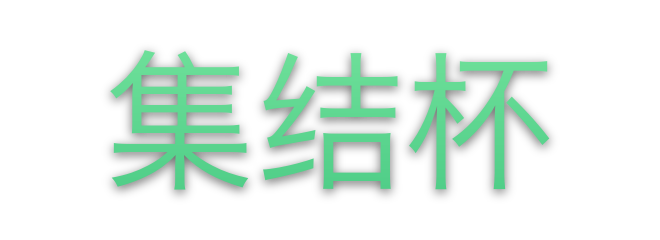
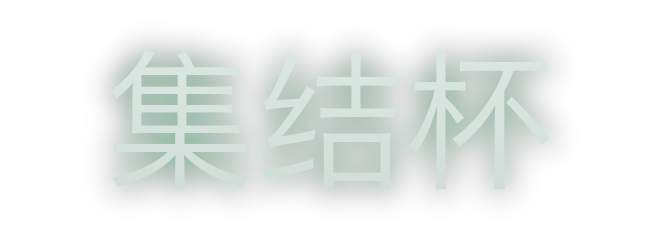
集结杯 sc2-dark 标题对齐 design：纯绿 → 浅白 + 绿色外发光
截图 #24 反馈 sc2-dark「集结杯」与 design 不一致。design styles.css：
sc2-dark .lockup-cn = color var(--ink)(#dfeae6 浅灰白) + text-shadow 0 0 16px rgba(86,207,140,.32) 绿发光。
原 PIL 标题图误做成纯绿渐变，改为浅白渐变(223,234,230→205,219,213) + 绿色外发光：
- gen-titles.py：make() 支持彩色外发光（shadow=元组 → 居中 GaussianBlur 15 模拟 text-shadow）
- 重生成 jjb-title-sc2-dark.png；其余 5 套(metal-dark 金渐变/minimal-dark 浅白/3 light)本就对齐 design 不变

(logo 金色为用户决策，design 原 sc2 用银色，按用户全金保留)

Playwright 验证：home sc2-dark 标题浅白+绿光，0 errors。

Changed region(s): [[0.1515, 0.175, 0.8485, 0.8458]]

diff --git a/design/v2/gen-titles.py b/design/v2/gen-titles.py
@@ -35,8 +35,12 @@ def make(name, cands, top, bot, stroke, sw, shadow):
     md.text((x, y), TEXT, font=f, fill=255)
     base = Image.new("RGBA", (W, H), (0, 0, 0, 0))
     if shadow:
-        sh = Image.new("RGBA", (W, H), (0, 0, 0, 0)); ImageDraw.Draw(sh).text((x, y+3), TEXT, font=f, fill=(0, 0, 0, 150))
-        base = Image.alpha_composite(base, sh.filter(ImageFilter.GaussianBlur(5)))
+        if isinstance(shadow, tuple):  # 彩色外发光(居中大 blur，仿 design text-shadow 0 0 16px)
+            gl = Image.new("RGBA", (W, H), (0, 0, 0, 0)); ImageDraw.Draw(gl).text((x, y), TEXT, font=f, fill=shadow + (225,))
+            base = Image.alpha_composite(base, gl.filter(ImageFilter.GaussianBlur(15)))
+        else:  # 黑色投影
+            sh = Image.new("RGBA", (W, H), (0, 0, 0, 0)); ImageDraw.Draw(sh).text((x, y+3), TEXT, font=f, fill=(0, 0, 0, 150))
+            base = Image.alpha_composite(base, sh.filter(ImageFilter.GaussianBlur(5)))
     if stroke and sw > 0:
         st = Image.new("RGBA", (W, H), (0, 0, 0, 0)); ImageDraw.Draw(st).text((x, y), TEXT, font=f, fill=stroke+(255,), stroke_width=sw, stroke_fill=stroke+(255,))
         base = Image.alpha_composite(base, st)
@@ -47,7 +51,7 @@ def make(name, cands, top, bot, stroke, sw, shadow):
 CONFIGS = [
     ("metal-dark",    SERIF, (240,216,144), (199,154,62),  (58,44,16),     3, True),
     ("metal-light",   SERIF, (98,70,18),    (47,33,5),     (214,182,120),  1, False),
-    ("sc2-dark",      SANS,  (120,230,160), (70,200,130),  None,           0, True),
+    ("sc2-dark",      SANS,  (223,234,230), (205,219,213),  None,           0, (86,207,140)),
     ("sc2-light",     SANS,  (30,82,54),    (18,58,38),    None,           0, False),
     ("minimal-dark",  SANS,  (241,243,246), (205,210,218), None,           0, False),
     ("minimal-light", SANS,  (32,38,48),    (16,20,28),    None,           0, False),